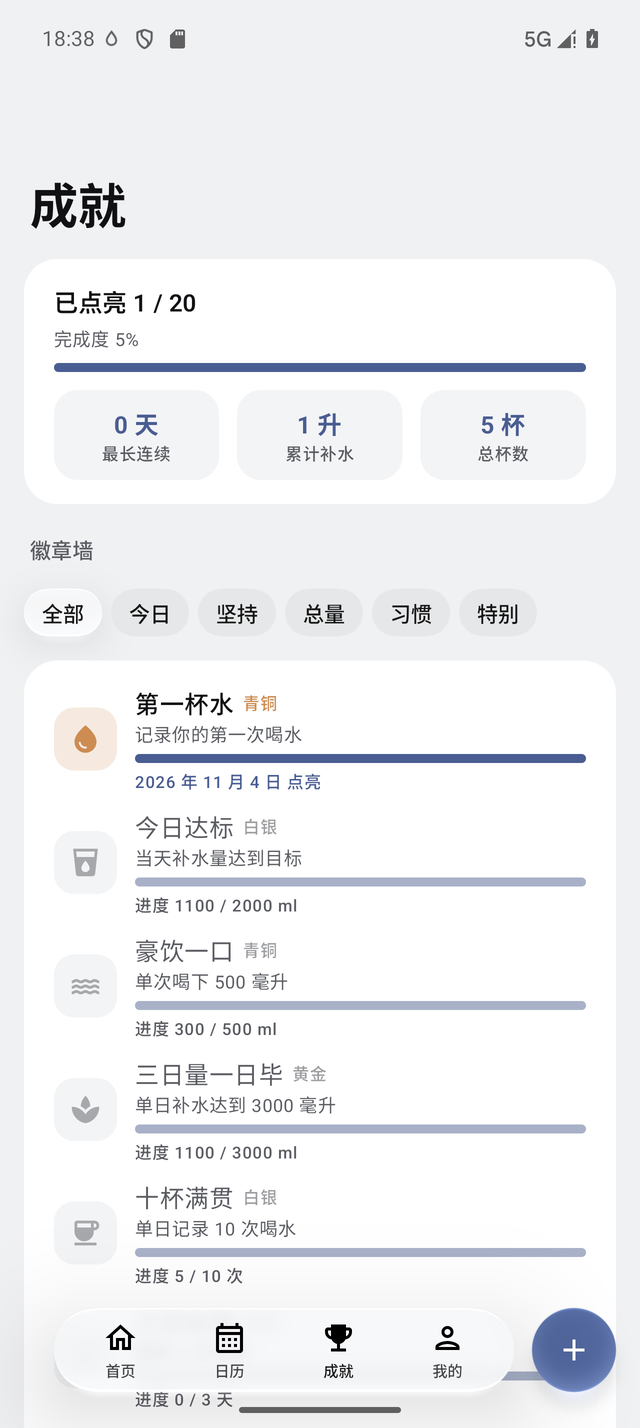
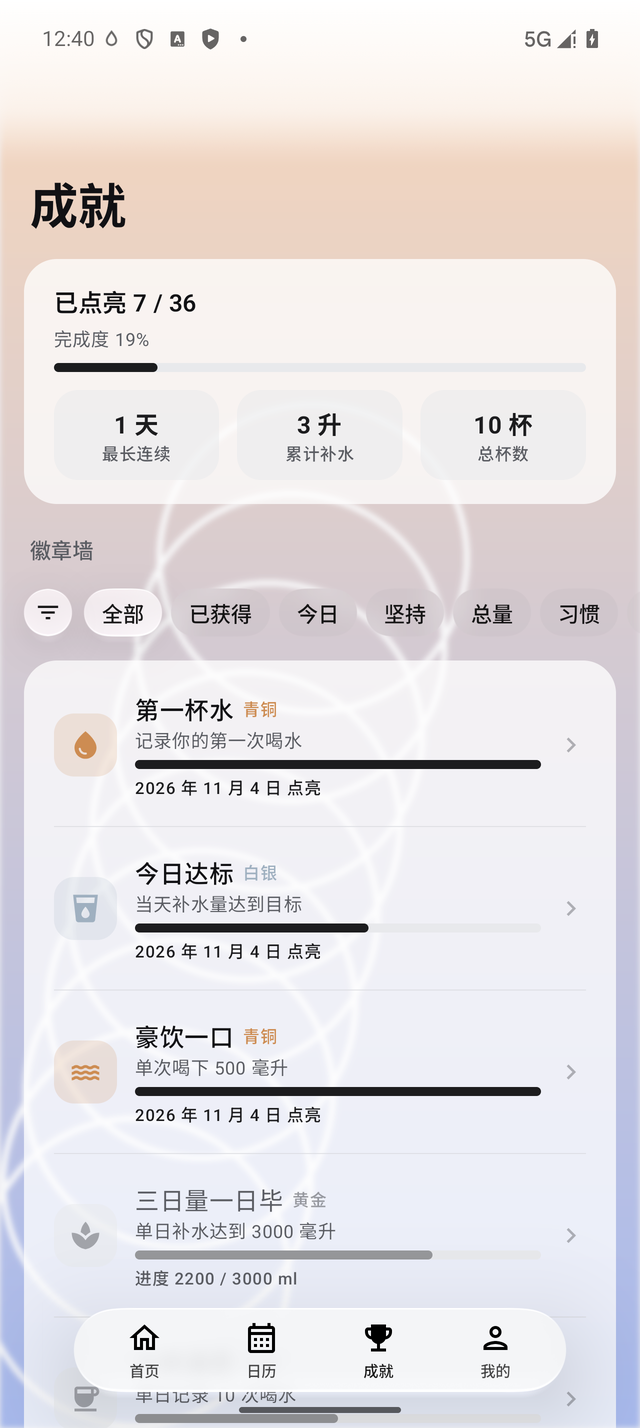
docs: 更新 README 与界面截图到 1.8.2
截图仍是第 8 轮之前的蓝色主题旧界面，且成就数量、COUI 版本、快捷容量
按钮等描述已过期，随本轮重拍首页/日历/成就/我的/外观五张图并同步文案。

diff --git a/README.md b/README.md
@@ -5,6 +5,7 @@
 [![Platform](https://img.shields.io/badge/Android-31%2B-3DDC84?logo=android&logoColor=white)](https://developer.android.com)
 [![Kotlin](https://img.shields.io/badge/Kotlin-2.4-7F52FF?logo=kotlin&logoColor=white)](https://kotlinlang.org)
 [![Compose](https://img.shields.io/badge/Jetpack%20Compose-Material%203-4285F4?logo=jetpackcompose&logoColor=white)](https://developer.android.com/jetpack/compose)
+[![Release](https://img.shields.io/badge/Release-v1.8.2-2C2C2E)](https://github.com/1660757572/DailyDrink/releases/latest)
 [![License](https://img.shields.io/badge/License-MIT-blue.svg)](LICENSE)
 
 ## 界面预览
@@ -15,17 +16,17 @@
 | **成就** | **我的** |
 | <img src="docs/screenshots/achievements.png" width="300" alt="成就" /> | <img src="docs/screenshots/mine.png" width="300" alt="我的" /> |
 
-> 外观设置：深/浅色、Material You 动态取色、自定义背景图片
+> 外观设置：深/浅色、强调色模板与自定义取色、背景图片、遮罩不透明度 / 高斯模糊 / 容器不透明度调节
 
 <img src="docs/screenshots/appearance.png" width="300" alt="外观设置" />
 
 ## 功能
 
 ### 记录饮水
-- 首页「记一杯」按默认容量一键记录，快捷按钮支持 +150 / +200 / +300 / +500 ml
+- 首页「记一杯」按默认容量一键记录，快捷按钮支持 150 / 200 / 300 / 500 ml
 - 「记一杯」弹窗可选择容量、饮品类型与记录时间，忘记记录时可补记（时间选择器只允许选今天已过去的时刻）
 - 内置白水、淡茶、牛奶、汤品、咖啡、饮料等类型，可按补水系数折算有效补水，并支持自定义饮品
-- 今日记录可单条删除，首页圆环展示已喝、还差、连续天数
+- 今日记录可单条删除，首页圆环展示已喝、还差、连续天数，达标时圆环收口并打勾
 
 ### 目标与日历
 - 每日饮水量目标、默认一杯容量可随时调整
@@ -38,15 +39,17 @@
 - 开机自动恢复提醒计划，权限缺失时在「我的 → 系统权限」中引导开启
 
 ### 成就系统
-- 20 枚成就徽章，分为今日 / 坚持 / 总量 / 习惯 / 特别等分类，使用 COUI ChipTab 横向切换
+- 36 枚成就徽章，分为今日 / 坚持 / 总量 / 习惯 / 特别等分类，使用 COUI ChipTab 横向切换，前置筛选菜单可直接跳到全部或已获得
 - 展示点亮进度、累计补水、最长连续与总杯数
+- 徽章详情二级页由共享元素动画衔接，支持左右滑动连续查看
 
 ### 个性化
 - 深色 / 浅色 / 跟随系统，深色为纯黑、浅色为 #F0F1F3 纯色底
-- Material You 动态取色，从系统壁纸提取主色调
+- 强调色提供水蓝、动态取色、草野、柠檬、黑白五套模板，也可用取色器自定义主色调
 - 支持选择本地图片作为页面背景（图片保存在应用私有目录），遮罩不透明度、高斯模糊与容器不透明度均可调节，一键恢复默认
 - 头像从系统相册选择后可拖动、缩放裁剪，昵称与头像显示在「我的」页面
 - 首启引导：欢迎、个人信息、每日目标、提醒、权限五步完成初始化
+- 「我的 → 关于」展示版本、组件来源与许可信息
 
 ## 技术栈
 
@@ -54,7 +57,7 @@
 | --- | --- |
 | 语言 | Kotlin 2.4 |
 | UI | Jetpack Compose（BOM 2026.08.01）+ Material 3 |
-| 设计体系 | COUI-Kit 0.0.1-alpha4（ColorOS 17 液态玻璃组件，`io.github.itoseo:coui`） |
+| 设计体系 | COUI-Kit 0.0.1-alpha7（ColorOS 17 液态玻璃组件，`io.github.itoseo:coui`） |
 | 存储 | DataStore Preferences（全部数据仅存本机） |
 | 提醒 | AlarmManager + WorkManager + 通知渠道 |
 | SDK | minSdk 31 · targetSdk 37 · compileSdk 37 |
